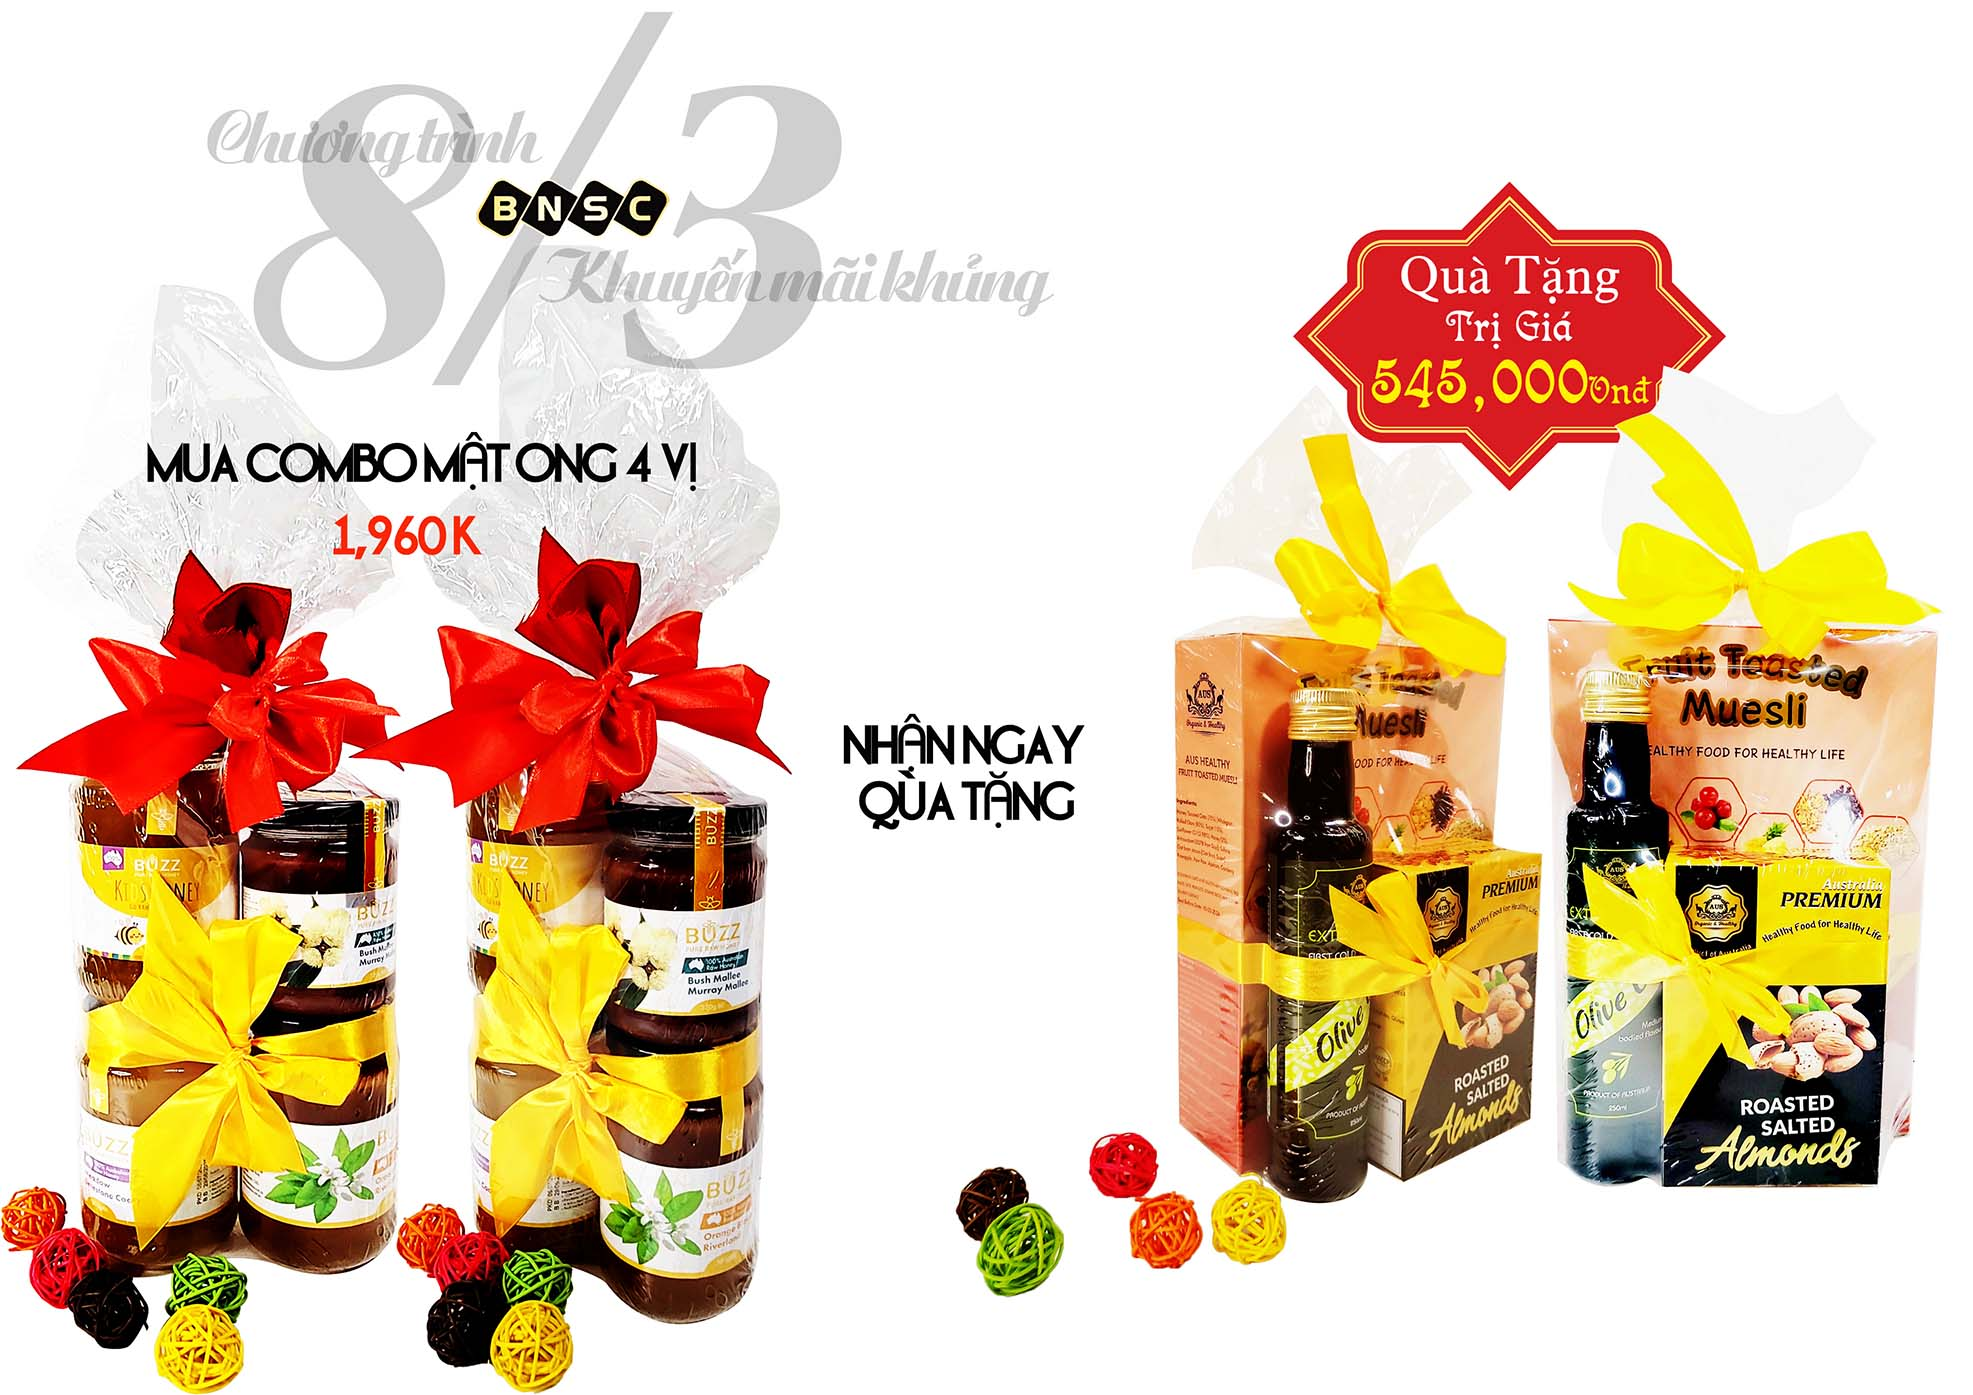
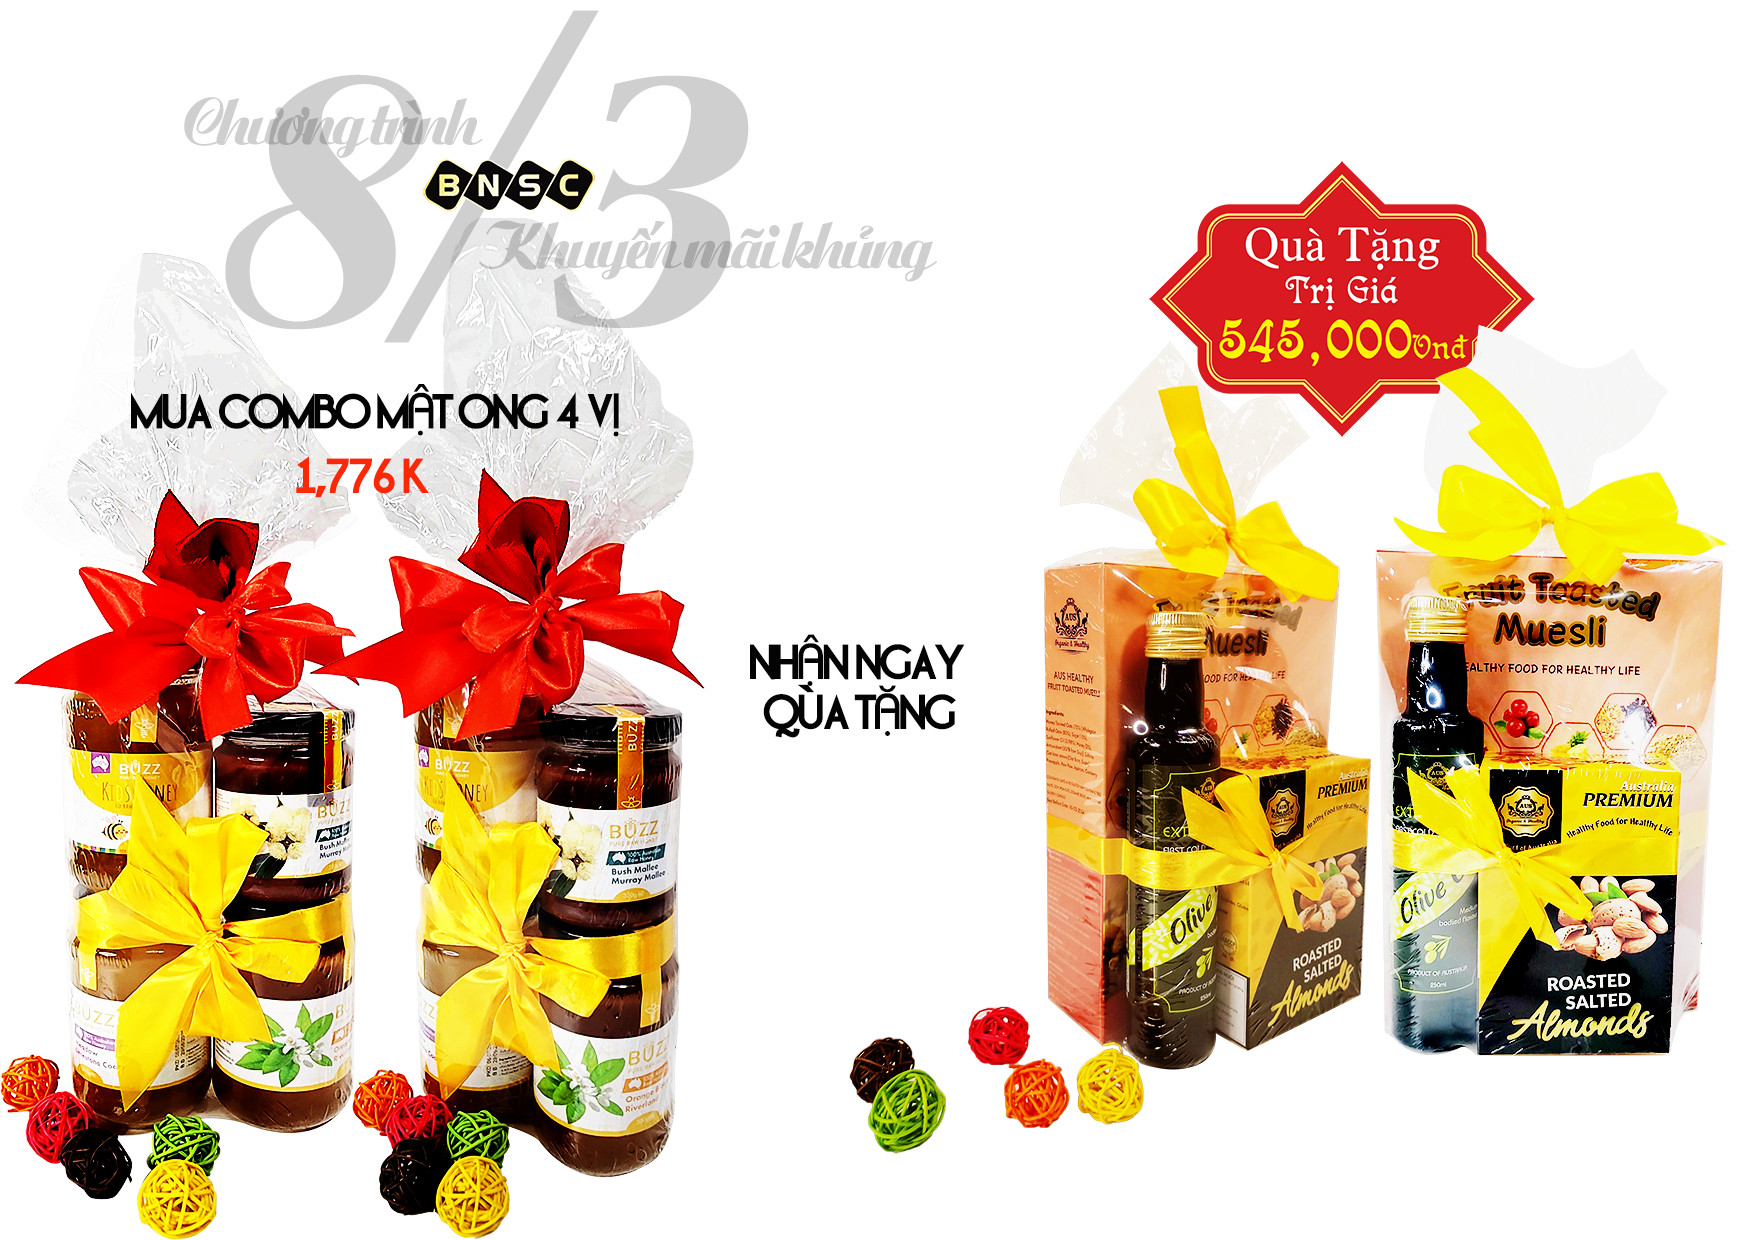
Embeding video - responsive

diff --git a/src/media.html b/src/media.html
@@ -88,14 +88,15 @@
     </div>
   </section>
 
-  <section id="media" class="row g-0">
-    <div class="col-lg-4 col-sm-6">
+  <section id="media" class="row g-0 text-center">
+    <div class="col-lg-4 p-1">
       <div class="media-item">
         <!-- <img src="img/farm1.jpg" alt="farm" /> -->
-      <iframe
-        src="https://www.facebook.com/plugins/video.php?height=314&href=https%3A%2F%2Fwww.facebook.com%2F100082079774651%2Fvideos%2F597481541724954%2F&show_text=false&width=560&t=0"
-        width="560" height="314" style="border:none;overflow:hidden" scrolling="no" frameborder="0" allowfullscreen="true"
-        allow="autoplay; clipboard-write; encrypted-media; picture-in-picture; web-share" allowFullScreen="true"></iframe>
+        <iframe
+          src="https://www.facebook.com/plugins/video.php?height=314&href=https%3A%2F%2Fwww.facebook.com%2F100082079774651%2Fvideos%2F597481541724954%2F&show_text=false&width=560&t=0"
+          style="border:none;overflow:hidden" scrolling="no" frameborder="0" allowfullscreen="true"
+          allow="autoplay; clipboard-write; encrypted-media; picture-in-picture; web-share"
+          allowFullScreen="true"></iframe>
         <!-- <div class="media-overlay">
           <div>
             <h3>Project title</h3>
@@ -104,13 +105,14 @@
         </div> -->
       </div>
     </div>
-    <div class="col-lg-4 col-sm-6">
+    <div class="col-lg-4 p-1">
       <div class="media-item">
         <!-- <img src="img/farm2.jpg" alt="farm" /> -->
         <iframe
           src="https://www.facebook.com/plugins/video.php?height=314&href=https%3A%2F%2Fwww.facebook.com%2F100082079774651%2Fvideos%2F731926448428938%2F&show_text=false&width=560&t=0"
-          width="560" height="314" style="border:none;overflow:hidden" scrolling="no" frameborder="0" allowfullscreen="true"
-          allow="autoplay; clipboard-write; encrypted-media; picture-in-picture; web-share" allowFullScreen="true"></iframe>
+          style="border:none;overflow:hidden" scrolling="no" frameborder="0" allowfullscreen="true"
+          allow="autoplay; clipboard-write; encrypted-media; picture-in-picture; web-share"
+          allowFullScreen="true"></iframe>
         <!-- <div class="media-overlay">
           <div>
             <h3>Project title</h3>
@@ -119,13 +121,14 @@
         </div> -->
       </div>
     </div>
-    <div class="col-lg-4 col-sm-6">
+    <div class="col-lg-4 p-1">
       <div class="media-item">
         <!-- <img src="img/farm3.jpg" alt="farm" /> -->
         <iframe
           src="https://www.facebook.com/plugins/video.php?height=314&href=https%3A%2F%2Fwww.facebook.com%2F101561419283580%2Fvideos%2F907873013590676%2F&show_text=false&width=560&t=0"
-          width="560" height="314" style="border:none;overflow:hidden" scrolling="no" frameborder="0" allowfullscreen="true"
-          allow="autoplay; clipboard-write; encrypted-media; picture-in-picture; web-share" allowFullScreen="true"></iframe>
+          style="border:none;overflow:hidden" scrolling="no" frameborder="0" allowfullscreen="true"
+          allow="autoplay; clipboard-write; encrypted-media; picture-in-picture; web-share"
+          allowFullScreen="true"></iframe>
         <!-- <div class="media-overlay">
           <div>
             <h3>Project title</h3>
@@ -201,16 +204,16 @@
       </div>
     </div>
   </section> -->
+  </section>
   <!-- End of Media section -->
-
   <footer>
     <div class="footer-top">
       <div class="container">
         <div class="row">
           <!-- <div class="col-md-4">
-                    <h5  class="logo-text-footer">Barossa Legend Aus Pty Ltd</h5>
-                    <p>was established in early 2022, and is located at Unit 38-131 Gray Street, Adelaide SA 5000 Australia, under the business brand name <strong>AUS Organic & Healthy<strong></p>
-                  </div> -->
+                  <h4  class="logo-text-footer">Barossa Legend Aus Pty Ltd</h4>
+                  <p>was established in early 2022, and is located at Unit 38-131 Gray Street, Adelaide SA 5000 Australia, under the business brand name <strong>AUS Organic & Healthy<strong></p>
+                </div> -->
           <div class="col-lg-5 col-md-12 mb-4 mb-12 mb-md-0">
             <h2>CÔNG TY TNHH THỰC PHẨM & GIẢI KHÁT BENISON</h2>
             <img src="img/company-logos/logo.png" alt="Logo Benison" class="d-inline-block"
@@ -241,10 +244,7 @@
                 <i class="bx bx-mail-send"></i>&nbsp;
                 infobenison.BNS@gmail.com
               </p>
-              <!-- <p>
-                  <i class="bx bx-mail-send"></i>&nbsp;
-                  sue@barossalegends.com.au
-                </p> -->
+
             </div>
           </div>
         </div>

diff --git a/src/css/style.css b/src/css/style.css
@@ -22,11 +22,11 @@ h6 {
 }
 
 h4 {
- text-transform: uppercase;
- color: #11245a;
- letter-spacing: 1px;
- font-size: 20px;
- font-weight: 600;
+  text-transform: uppercase;
+  color: #11245a;
+  letter-spacing: 1px;
+  font-size: 20px;
+  font-weight: 600;
 }
 
 .title-sm {
@@ -62,8 +62,8 @@ section {
 } */
 
 /* Modal popup on page load */
-.modal h1{
-  color:red;
+.modal h1 {
+  color: red;
   font-weight: 700;
   font-size: 24px;
 }
@@ -72,15 +72,16 @@ section {
   font-size: 24px;
   border: 1px solid red;
   color: red;
-  
-  
+
+
 }
 
-.modal-footer a:hover{
-  color:yellow;
+.modal-footer a:hover {
+  color: yellow;
   background-color: #174821;
   border: 1px solid #174821;
 }
+
 /* End Modal popup on page load */
 
 .navbar {
@@ -88,7 +89,7 @@ section {
   border-bottom: 1px solid rgba(0, 0, 0, 0, 1);
 }
 
-.navbar-header{
+.navbar-header {
   padding: 12px 0;
 }
 
@@ -117,11 +118,9 @@ section {
 }
 
 #hero-home {
-  background: linear-gradient(
-      -245deg,
+  background: linear-gradient(-245deg,
       rgba(255, 166, 0, 0.3),
-      rgba(255, 140, 0, 0.2)
-    ),
+      rgba(255, 140, 0, 0.2)),
     url(../img/hero-home.jpg) no-repeat;
   min-height: 90vh;
   width: 100%;
@@ -188,11 +187,9 @@ section {
 }
 
 #hero-products {
-  background: linear-gradient(
-      -245deg,
+  background: linear-gradient(-245deg,
       rgba(255, 166, 0, 0.3),
-      rgba(255, 140, 0, 0.2)
-    ),
+      rgba(255, 140, 0, 0.2)),
     url(../img/hero-products.jpg);
   background-color: rgb(247, 247, 247);
   min-height: 45vh;
@@ -317,6 +314,11 @@ form .form-control:focus {
   width: 40%;
 }
 
+iframe {
+  width: 100%;
+  height: 176px;
+}
+
 .media-item {
   overflow: hidden;
   position: relative;
@@ -387,23 +389,23 @@ form .form-control:focus {
   transition: all 0.3s ease-in-out;
 }
 
-#featured .featured-box:hover{
+#featured .featured-box:hover {
   box-shadow: 20px 20px 15px rgba(0, 0, 0, 0.2);
 }
 
-#featured .featured-box img{
+#featured .featured-box img {
   margin-bottom: 10px;
   width: 80%;
 }
 
-#featured .featured-box h6{
-  display:inline-block;
+#featured .featured-box h6 {
+  display: inline-block;
   font-size: 12px;
   color: #f08c00;
-  transition:all 0.3s ease-in-out;
+  transition: all 0.3s ease-in-out;
 }
 
-#featured .featured-box h6:hover{
+#featured .featured-box h6:hover {
   color: #174821;
 }
 
@@ -411,19 +413,30 @@ form .form-control:focus {
   .companyName {
     font-size: 3rem;
   }
-  
+
   #featured .featured-box {
     width: calc(20% - 5px);
     margin: 0px 10px;
-    padding:5px;
+    padding: 5px;
+  }
+
+  iframe {
+    width: 560px;
+    height: 314px;
+  }
+}
+
+@media (max-width: 425px) {
+
+  #featured .featured-box {
+    width: 50%;
+    margin: 5px;
+    padding: 5px;
 
   }
-  @media (max-width: 425px) {
-      
-    #featured .featured-box {
-      width: 50%;
-      margin: 5px;
-      padding:5px;
-  
-    }
+
+  iframe {
+    width: 357px;
+    height: 200px;
+  }
 }

diff --git a/src/products.html b/src/products.html
@@ -237,7 +237,7 @@
               data-bs-target="#COMBOMATONGUC">
           </div>
           <h4>COMBO MẬT ONG ÚC</h4>
-          <p class="card-text text-danger fw-bold">1,960,000 vnđ</p>
+          <p class="card-text text-danger fw-bold">1,776,000 vnđ</p>
         </div>
         <!-- The Modal -->
         <div class="modal fade" id="COMBOMATONGUC">
